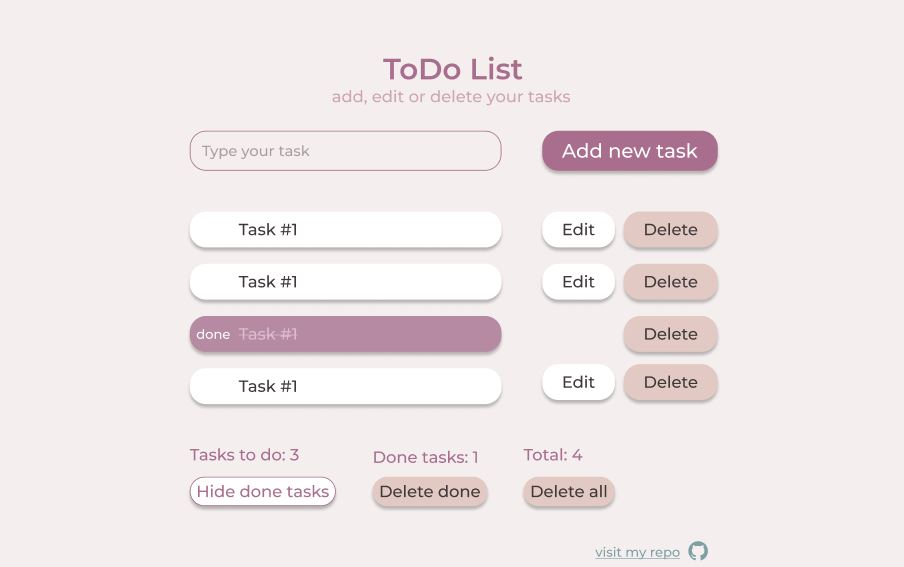
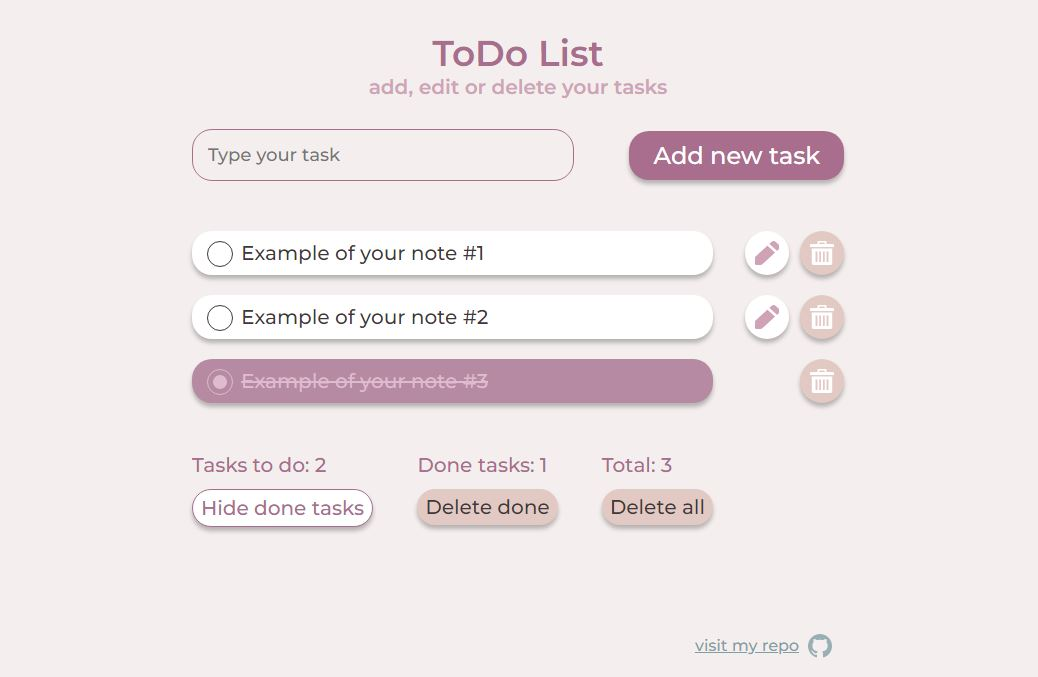
Updated styles and Delete done function

diff --git a/style.css b/style.css
@@ -41,12 +41,16 @@ main {
   color: #CEA4B6;
 }
 
-form {
+.form_add {
   display: flex;
   justify-content: space-between;
   align-items: center;
 }
-input {
+.form {
+  display: flex;
+  justify-content: space-between;
+}
+.input_add {
   padding: 14px 15px;
   font-family: Montserrat;
   font-weight: 500;
@@ -57,10 +61,24 @@ input {
   border-radius: 20px;
   background-color: #F4EFEE;
 }
-input::placeholder{
+.input{
+  padding: 10px;
+  font-family: Montserrat;
+  font-weight: 500;
+  width: 521px;
+  font-size: 18px;
+  line-height: 22px;
+  border: 1px solid #A96D8E;
+  border-radius: 20px;
+  background-color: transparent;
+}
+.input::placeholder{
   color: #A9A1A5;
 }
-input:focus{
+.input_add:focus{
+  outline: 1px solid #A96D8E;
+}
+.input:focus{
   outline: 1px solid #A96D8E;
 }
 .btn {
@@ -76,6 +94,7 @@ input:focus{
   background-color: #D3CBD0;
   cursor: not-allowed;
 }
+
 .btn_small{
   padding: 6px 8px;
 }
@@ -107,7 +126,19 @@ input:focus{
   color: #3E3838;
   background-color: #ffffff;
 }
-
+.btn-round {
+  position: relative;
+  padding: 10px;
+  width: 44px;
+  height: 44px;
+  font-size: 16px;
+  border-radius:100%;
+}
+.btn-round img{
+  width: 100%;
+  height: 100%;
+  object-fit: cover;
+}
 .notes__list {
   margin: 50px 0;
   padding: 0;
@@ -124,33 +155,66 @@ input:focus{
 .notes__item .btn-secondary{
   margin-left: 11px;
 }
-.notes__item input {
-margin-right: 50px;
-padding: 10px;
-color: #3E3838;
-}
 .notes__task {
-  padding: 10px 30px 10px 60px;
+  padding: 10px 15px;
   display: flex;
   align-items: center;
   width: 100%;
-  max-width: 382px;
+  max-width: 521px;
   font-size: 20px;
   line-height: 24px;
   background-color: #FFFFFF;
   box-shadow: 0px 4px 4px rgba(0, 0, 0, 0.25);
   border-radius: 20px;
-  cursor: pointer;
 }
 .notes__task.done{
   background-color: #B58AA2;
 }
 .notes__done{
-  margin: 0px 10px 0 -52px;
-  font-size: 16px;
-  line-height: 20px;
-  color: #ffffff;
+  margin: 0;
+  position: absolute;
+  width: auto;
+  width: 24px;
+  height: 24px;
+  opacity: 0;
+  z-index: -1;
+  
 }
+.notes__text{
+  margin-left: 34px;
+}
+.checkbox{
+  position: relative;
+}
+.checkbox::before{
+  position: absolute;
+  display: inline-block;
+  top: -12px;
+  left: 0px;
+  content:"";
+  width: 24px;
+  height: 24px;
+  border: 1px solid #3E3838;
+  border-radius:100%;
+  cursor: pointer;
+}
+.notes__task.done .checkbox::before{
+  border: 1px solid #DEBBCE;
+}
+.notes__task.done .checkbox::after{
+  position: absolute;
+  display: inline-block;
+  top: -6px;
+  left: 6px;
+  content:"";
+  width: 14px;
+  height: 14px;
+  background-color:  #DEBBCE;
+  border-radius:100%;
+}
+/* .notes__text{
+  margin-left: 34px;
+} */
 .notes__text.done{
   text-decoration-line: line-through;
   color: #DEBBCE;
@@ -208,31 +272,56 @@ margin-top: 12px;
     margin: 30px 0 0;
   }
   .subtitle {
-font-size: 18px;
+    font-size: 18px;
   }
-  input{
+  .input_add{
     width: 58%;
   }
+  .input{
+    width: 78%;
+  }
   .notes__task{
-    flex: 0 0 58%;
+    flex: 0 0 78%;
   }
   .notes__buttons {
     /* flex: 0 1 42%; */
   }
 }
+
+
 @media(max-width: 576px) {
   .container {
     padding: 0 10px;
     width: 100%;
   }
-  form {
+  .form_add {
     flex-direction: column;
   }
-  input{
+  .form {
+    padding: 10px;
+    display: flex;
+    align-items: center;
     width: 100%;
-    max-width: 382px;
+    max-width: 521px;
+    font-size: 20px;
+    line-height: 24px;
+    background-color: #FFFFFF;
+    box-shadow: 0px 4px 4px rgba(0, 0, 0, 0.25);
+    border-radius: 20px;
+  }
+  .form.done{
+    background-color: #B58AA2;
+  }
+  .input{
+    margin-right: 10px;
+    padding: 9px 10px;
+    width: 100%;
     font-size: 16px;
     line-height: 20px;
+  }
+  .input_add{
+    width: 100%;
+    max-width: 382px;
   }
   .info {
     flex-direction: column;
@@ -248,17 +337,51 @@ font-size: 18px;
     width: 100%;
     max-width: 382px;
   }
-  .notes__item input {
-    margin: 0;
+  .btn-round {
+    padding: 6px;
+    width: 28px;
+    height: 28px;
+    font-size: 11px;
+    line-height: 100%;
+  }
+  .checkbox::before{
+    top: -12px;
+    left: 0px;
+    width: 20px;
+    height: 20px;
+  }
+  .notes__task.done {
+    background-color: unset; 
+  }
+  .notes__task.done .checkbox::after{
+    top: -6px;
+    left: 6px;
+    width: 10px;
+    height: 10px;
+  }
+  .notes__item{
+    position: relative;
+  }
+  .notes__task {
+    flex: 0 1 auto;
+    padding: 0;
+    padding-right: 10px;
+    display: flex;
+    align-items: center;
+    font-size: 16px;
+    line-height: 20px;
+    background-color: unset;
+    box-shadow: none;
+    border-radius: none;
+  }
+  .notes__text {
+    margin-left: 30px;
   }
   .notes__buttons{
-    justify-content: flex-end;
-    width: 100%;
-    max-width: 382px;
-    margin-top: 7px;
-  }
-  .notes__task{
-    padding: 10px 30px 10px 40px;
+    /* position: absolute;
+    top: 5px;
+    right: 10px;
+    justify-content: flex-end; */
   }
   .notes__done{
     margin: 0 10px 0 -31px;
@@ -272,7 +395,7 @@ font-size: 18px;
   .info{
     margin: 0 auto;
     width: 100%;
-    max-width: 382px;
+    max-width: 100%;
   }
   .info>*:not(:last-child){
     margin-bottom: 20px;

diff --git a/index.html b/index.html
@@ -22,24 +22,24 @@
           <h2 class="subtitle">{{subtitle}}</h2>
         </header>
         <main>
-          <form @submit.prevent="handleStore">
-            <input type="text" required v-model="input.value" :placeholder="input.placeholder">
+          <form @submit.prevent="handleStore" class="form_add">
+            <input type="text" required v-model="input.value" :placeholder="input.placeholder" class="input_add">
             <button class="btn btn-primary" type="submit">Add new task</button>
           </form>
           <div class="notes">
             <ul class="notes__list" >
               <li v-for="(note, index) in notesFiltered" :key="index" class="notes__item">
                 <p v-show="note.hasError" class="error">{{errorMessage}}</p>
-                <form @submit.prevent="handleUpdateNote(note, index)" >
-                  <input v-if="note.isUpdating" v-model="notes[index].title" type="text" >
-                  <div v-else @click="handleDone(note)" class="notes__task" :class="{done:note.isDone}">
-                    <p v-if="note.isDone" class="notes__done">done</p>
-                    <p class="notes__text" :class="{done:note.isDone}">{{note.title}}</p>
+                <form @submit.prevent="handleUpdateNote(note, index)" class="form" :class="{done:note.isDone}">
+                  <input v-if="note.isUpdating" v-model="notes[index].title" type="text" class="input">
+                  <div v-else  class="notes__task" :class="{done:note.isDone}">
+                    <span @click="handleDone(note)" class="checkbox"></span>
+                    <p  @click="handleUpdate(note)" class="notes__text" :class="{done:note.isDone}">{{note.title}}</p>
                   </div>
                   <div class="notes__buttons">
-                    <button v-if="note.isUpdating" type="submit" class="btn btn-light">Ok</button>
-                    <button v-else @click="handleUpdate(note)" class="btn btn-light" v-if="!note.isDone">Edit</button>
-                    <button @click="handleDestroy(index)" type="button" class="btn btn-secondary">Delete</button>
+                    <button v-if="note.isUpdating" type="submit" class="btn btn-round btn-light">Ok</button>
+                    <button v-else @click="handleUpdate(note)" class="btn btn-round btn-light" v-if="!note.isDone"><img src="./edit.svg" alt="pen"></button>
+                    <button @click="handleDestroy(index)" type="button" class="btn btn-round btn-secondary"><img src="./delete.svg" alt="bin"></button>
                   </div>
                 </form>
               </li>
@@ -48,7 +48,7 @@
           <div class="info">
             <div>
               <p class="info__statistics">Tasks to do: {{amountOfTasksToDo}}</p>
-              <button v-if="isDoneHidden" @click="handleShowDone" class="btn btn_small btn-primary-light" >Show done tasks</button>
+              <button v-if="isDoneHidden && amountOfDoneTasks !== 0" @click="handleShowDone" class="btn btn_small btn-primary-light" >Show done tasks</button>
               <button v-else @click="handleHideDone" class="btn btn_small btn-primary-light" :disabled="!amountOfDoneTasks">Hide done tasks</button>
             </div>
             <div>

diff --git a/app.js b/app.js
@@ -90,6 +90,7 @@ const App = {
       this.notes = [];
     },
     handleUpdate(note) {
+      if (note.isDone) return;
       note.isUpdating = !note.isUpdating;
       this.lastValueOfNote = note.title;
     },

diff --git a/README.md b/README.md
@@ -6,6 +6,10 @@
 
 ![Look at this lovely design](https://github.com/ollaweb/vue3-notes/blob/main/ToDo-List.jpg)
 
+## Demonstration
+
+![Demonstration](https://github.com/ollaweb/vue3-notes/blob/main/demonstration.gif)
+
 ### Description
 
 Small, very simple project created by learning Vue 3 [in this course.](https://tocode.ru/courses/vuejs-3-s-nulya-do-rezultata/)
@@ -20,10 +24,10 @@ Small, very simple project created by learning Vue 3 [in this course.](https://t
 - adding new tasks;
 - delete tasks in the list;
 - my additions:
-  -- simple design with only css;
-  -- editing tasks in the list;
-  -- mark tasks in the list as done;
-  -- hide done tasks;
-  -- information about all tasks and tasks that are already done;
-  -- delete only done tasks;
-  -- delete all tasks;
+    -- simple design with only css;
+    -- editing tasks in the list;
+    -- mark tasks in the list as done;
+    -- hide done tasks;
+    -- information about all tasks and tasks that are already done;
+    -- delete only done tasks;
+    -- delete all tasks;
